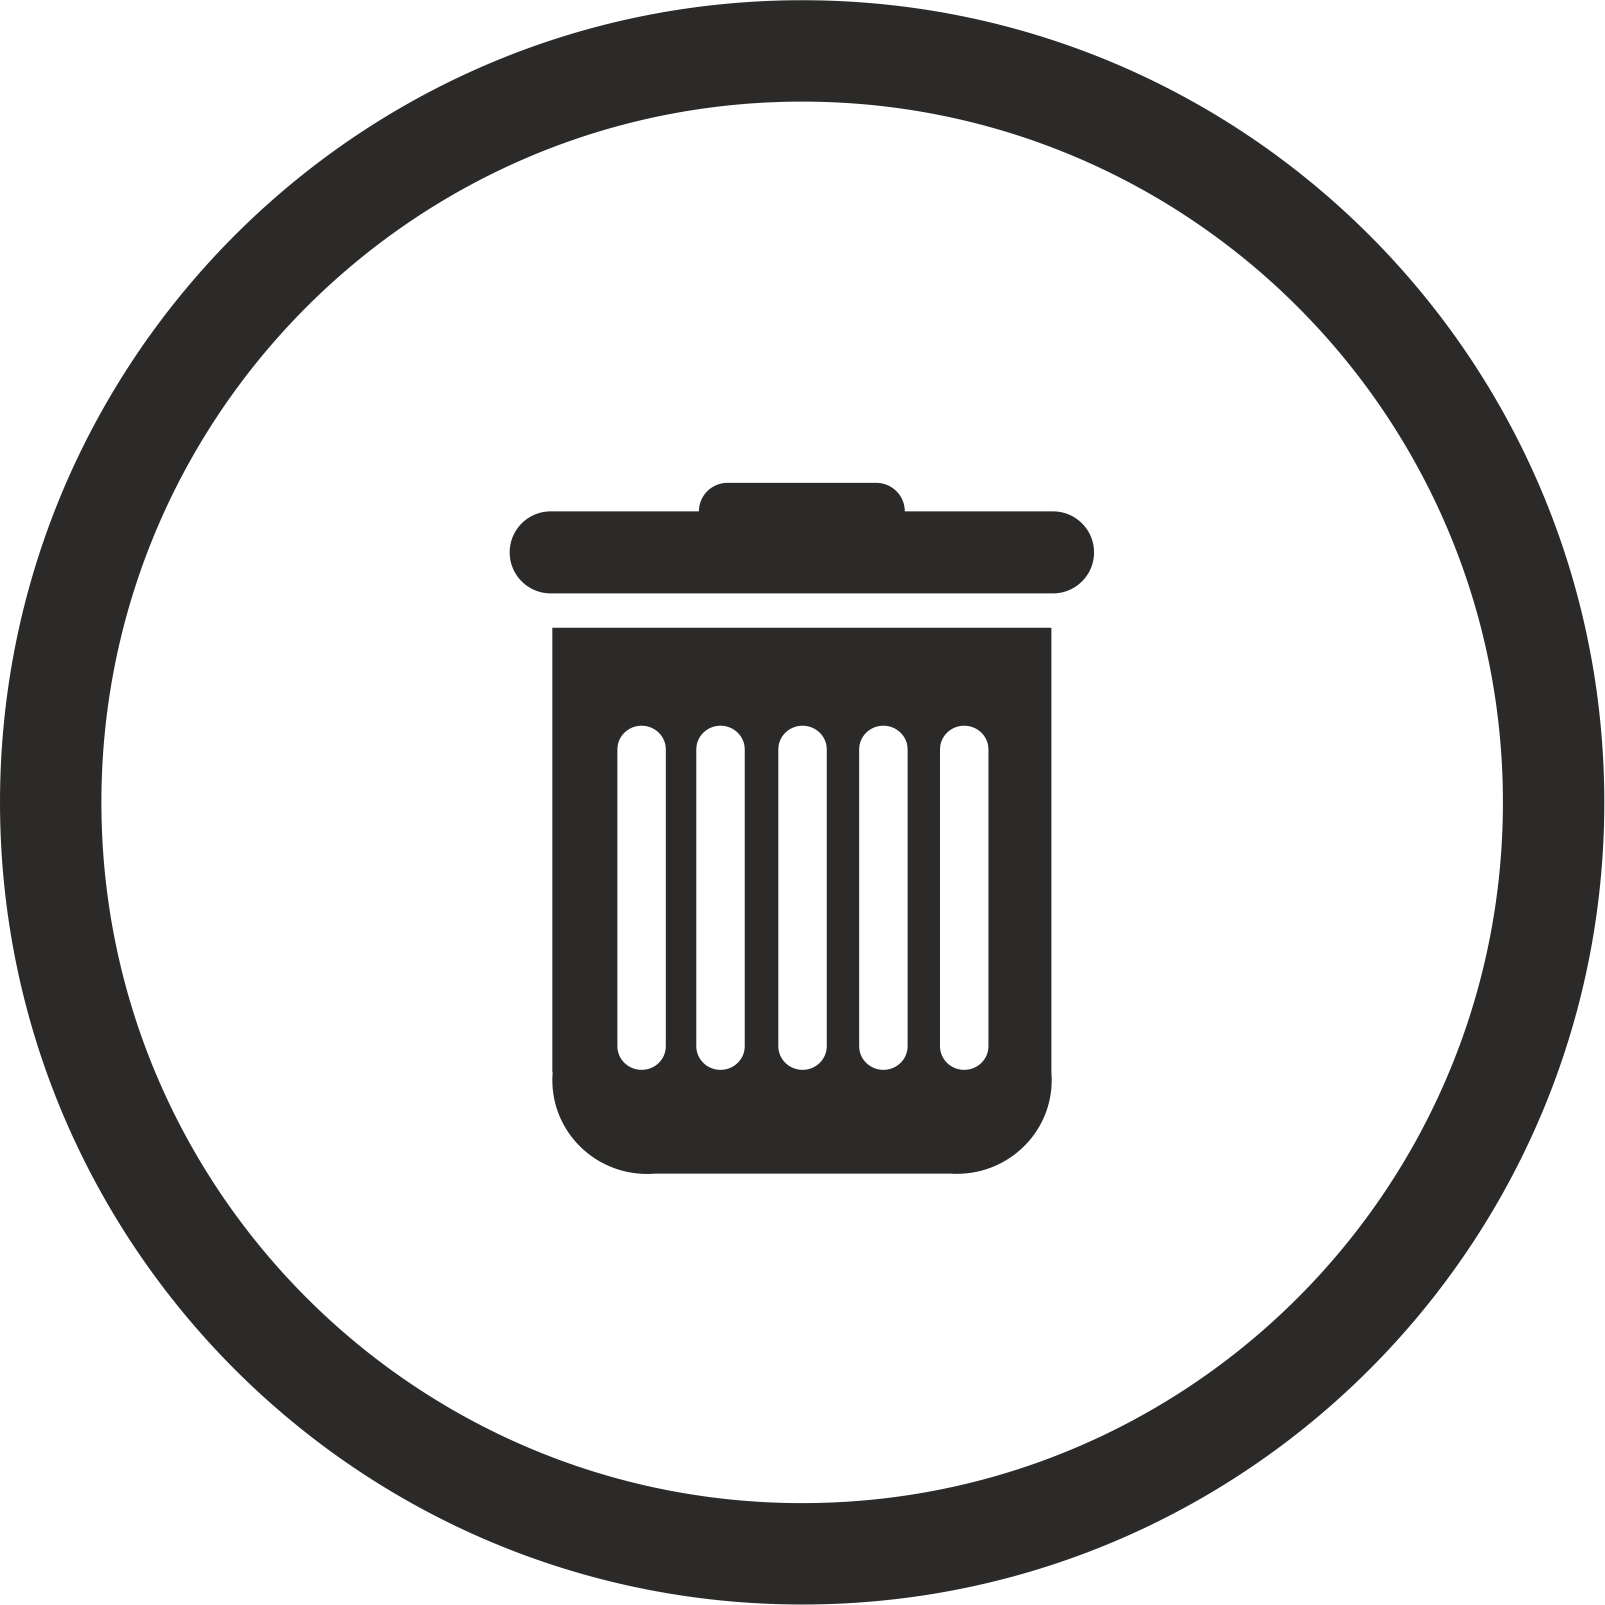
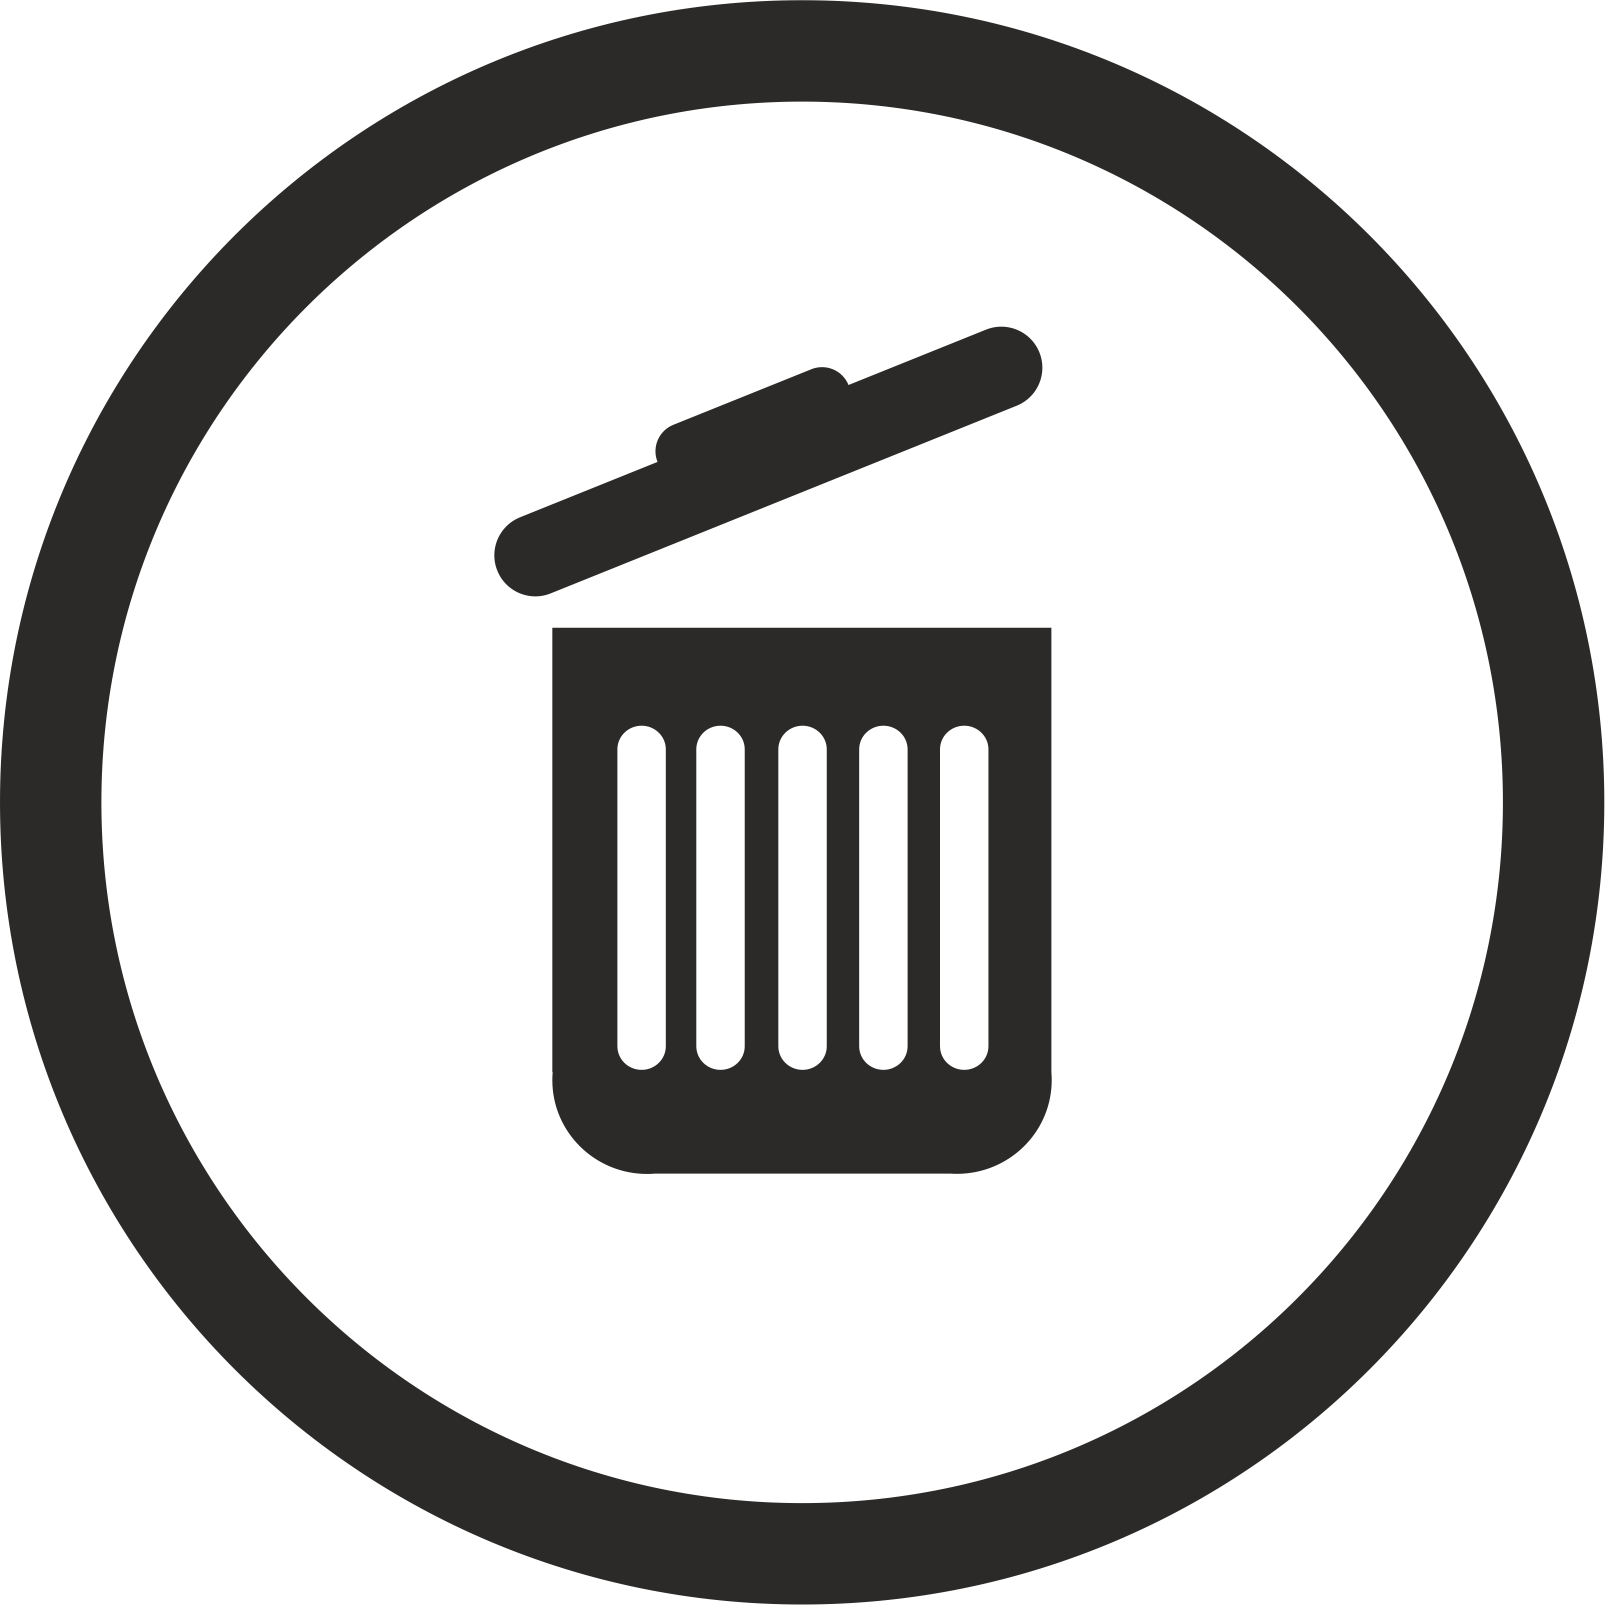
ADD: improve style darkmode, undo overlay btn and delete all tasks function

Changed region(s): [[0.3115, 0.1869, 0.6854, 0.3738]]

diff --git a/kanban/script.js b/kanban/script.js
@@ -1,6 +1,9 @@
 // bottoni principali
 const darkBtn = document.querySelector('.dark-button')
 const addBtn = document.querySelector('.add-button')
+const deleteMessage = document.querySelector('.delete-section')
+const undoDelete = document.querySelector('.no')
+const deleteAllBtn = document.querySelector('.yes')
 //elementi della sezione overlay con form aggiunta testo icona e colori
 const overlayContainer = document.querySelector('.overlay-container')
 const addForm = document.getElementById('add-form')
@@ -10,10 +13,12 @@ const selectedColor = document.querySelectorAll('.color-section > *')
 // const colorPicker = document.querySelector('.color-picker')
 const randomBgColor = document.querySelector('.random-bg')
 const questionMark = document.querySelector('.fa-question')
+let toDoEl
 let icon = null
 let color = null
 let misteryColor = null
 let arrayColor = []
+const undoBtn = document.getElementById('undo-button')
 const confirmBtn = document.getElementById('confirm-button')
 const closeBtn = document.querySelector('.closed-btn')
 // elementi per la gestione del drag and drop
@@ -29,6 +34,11 @@ const trashImg = document.querySelector('.trash-img')
 // pulsante per attivARE DARKMODE
 darkBtn.addEventListener('click', function(){
    document.body.classList.toggle('dark-mode')
+   if(document.body.className === 'dark-mode'){
+        trashImg.src = "../img/cestino-darkmode-chiuso.png"
+    }else{
+        trashImg.src = "../img/cestino-chiuso.png" 
+    }
 })
 // ascolto bottone di aggiunta task
 addBtn.addEventListener('click', function () {
@@ -61,13 +71,16 @@ for (let i = 0; i < selectedColor.length;i++){
 
     })
 }
-// rimozione focus sul click dell'overlay ma fuori dal form
-overlayContainer.addEventListener('click',function(event){
-    if (event.target === overlayContainer){
-        removeIconFocus()
-        removeColorFocus()
-    }
-       
+// pulsante annulla
+undoBtn.addEventListener('click', function(event){
+    event.preventDefault()
+    removeIconFocus()
+    removeColorFocus()
+    toDoText.value = ''
+    icon = null
+    color = null
+    misteryColor = null
+    arrayColor = []
 })
 // inserimento task da parte dell'utente
 addForm.addEventListener('submit', function (event) {
@@ -82,7 +95,7 @@ addForm.addEventListener('submit', function (event) {
         removeColorFocus()
         overlayContainer.classList.add('d-off')
         overlayContainer.classList.remove('overflow-h')
-        const toDoEl = createCard('div', ['to-do-element', color], toDoText.value, icon, el => (el.draggable = true))
+        toDoEl = createCard('div', ['to-do-element', color], toDoText.value, icon, el => (el.draggable = true))
     
         toDoEl.style = misteryColor
         cardBody.appendChild(toDoEl)
@@ -106,8 +119,23 @@ closeBtn.addEventListener('click', function(event){
         removeColorFocus()
 
 })
-
-
+// rimozione di tutte task al cliccare del cestino
+trashImg.addEventListener('click',function(){
+    deleteMessage.classList.remove('d-none')
+})
+undoDelete.addEventListener('click',function(){
+    deleteMessage.classList.add('d-none')
+})
+deleteAllBtn.addEventListener('click',function(){
+    deleteMessage.classList.add('d-none')
+    if(toDoEl){
+        const deleEl = document.querySelectorAll('.to-do-element')
+        for(let i = 0; i < deleEl.length;i++){
+            deleEl[i].remove()
+        }
+        
+    }
+})
 
 
 
@@ -158,13 +186,22 @@ function drop() {
 }
 // aggiunto eventi di drag and drop al cestino
 trashImg.addEventListener('dragenter', function(event){
-    trashImg.src = "../img/cestino-aperto.png"
+    if(document.body.className === 'dark-mode'){
+        trashImg.src = "../img/cestino-darkmode-aperto.png"
+    } else {
+        trashImg.src = "../img/cestino-aperto.png" 
+    }
+    
     
     console.log('entrato');
 })
 
 trashImg.addEventListener('dragleave', function(event){
-    trashImg.src = "../img/cestino-chiuso.png"
+    if(document.body.className === 'dark-mode'){
+        trashImg.src = "../img/cestino-darkmode-chiuso.png"
+    } else {
+        trashImg.src = "../img/cestino-chiuso.png" 
+    }
     
     console.log('uscito');
 })
@@ -175,7 +212,11 @@ trashImg.addEventListener('dragover', function(event){
 })
 
 trashImg.addEventListener('drop', function(event){
-    trashImg.src = "../img/cestino-chiuso.png"
+    if(document.body.className === 'dark-mode'){
+        trashImg.src = "../img/cestino-darkmode-chiuso.png"
+    } else {
+        trashImg.src = "../img/cestino-chiuso.png" 
+    }
     dragItem.remove()
     console.log('sto eliminando');
 })

diff --git a/kanban/css/app.css b/kanban/css/app.css
@@ -60,9 +60,7 @@ header {
 
 h1 {
     text-shadow: 2px 2px 2px rgba(0, 0, 0, 0.356);
-    line-height: 30px;
-    padding-bottom: 15px;
-    padding-left: 5px;
+    padding: 0px 0px 0px 5px;
     transition: background-color 1s, box-shadow 1s;
 
 }
@@ -70,7 +68,7 @@ h1 {
 .navbar {
     display: flex;
     justify-content: space-between;
-    align-items: center;
+    align-items: center
 }
 
 .dark-button {
@@ -99,6 +97,7 @@ h1 {
     cursor: pointer;
     color: white;
     box-shadow: rgba(0, 0, 0, 0.297) 2px 2px 4px 1px;
+    transition: background-color 1s;
 
 }
 
@@ -149,14 +148,25 @@ h1 {
 
 .trash {
     position: relative;
-    width: 70px;
+    width: 60px;
     display: flex;
 }
 
 .trash img {
     position: absolute;
-    margin-top: 3px;
+    left: 15px;
+    transition: transform 0.3s;
+    cursor: pointer;
 
+}
+.trash img:hover{
+    transform: scale(1.2);
+}
+.delete-section{
+    position: absolute;
+    background-color: #A7E8BD;
+    top: 50%;
+    left: 50%;
 }
 
 /* overlay style */
@@ -175,7 +185,7 @@ h1 {
     justify-content: center;
     visibility: visible;
     opacity: 1;
-    transition: opacity 1s ease, visibility 0.3s ease;
+    transition: opacity 1s ease, visibility 0.3s ease , background-color 1s;
     user-select: none;
 }
 
@@ -256,7 +266,21 @@ h1 {
 #to-do-text:focus {
     outline: 3px solid #44b4af;
 }
-
+#undo-button{
+    margin: 15px 0 0 15px;
+    padding: 7px 10px;
+    background-color: #ffffff;
+    display: inline-block;
+    border-radius: 14px;
+    border: none;
+    line-height: 20px;
+    cursor: pointer;
+    box-shadow: rgba(0, 0, 0, 0.297) 2px 2px 4px 1px;
+    font-size: 16px;
+}
+#undo-button:hover{
+    background-color: #dfdfdf
+}
 #confirm-button {
     margin: 15px 0 0 15px;
     padding: 7px 10px;
@@ -283,11 +307,11 @@ h1 {
     top: 50px;
     right: 50px;
     transition: transform 0.3s;
+    cursor: pointer;
 }
 
 .closed-btn:hover {
     transform: scale(1.5);
-    cursor: pointer;
 }
 
 /* utilities class */
@@ -427,6 +451,9 @@ h1 {
     border: 2px solid rgb(255, 255, 255);
     color: rgb(255, 255, 255);
 }
+.dark-mode .dark-button:hover{
+    background-color: rgb(58, 57, 57);
+}
 .dark-mode .card{
     background-color:rgb(65, 65, 65) ;
     border-radius: 2px;
@@ -435,7 +462,35 @@ h1 {
 .dark-mode .card-title{
     color:white
 }
+.dark-mode .add-button{
+    background-color:rgb(16, 16, 16) ;
+}
+.dark-mode .add-button:hover{
+    background-color: rgb(58, 57, 57);
+}
+.dark-mode .trash img{
+    opacity: 1;
+}
+.dark-mode .overlay-container{
+    background-color:  rgba(16, 16, 16, 0.897);
 
+}
+.dark-mode .color-section>*.focus,
+.dark-mode .icon.focus{
+    outline: 3px solid #145C9E;
+}
+.dark-mode .icon.focus{
+    background-color:#5298da;
+}
+.dark-mode .icon:hover{
+    background-color:#2373be;
+}
+.dark-mode #confirm-button{
+    background-color:#145C9E;
+}
+.dark-mode #confirm-button:hover{
+    background-color:#2373be;
+}
 /* media querriers */
 @media (max-width: 992px) {
     .col {

diff --git a/kanban/index.html b/kanban/index.html
@@ -152,10 +152,17 @@
                 </div>
 
             </div>
-
-            <button id="confirm-button">Conferma</button>
+            <div>
+                <button id="undo-button">Annulla</button>
+                <button id="confirm-button">Conferma</button>
+            </div>
             <i class="fa-regular fa-circle-xmark closed-btn"></i>
         </form>
+    </div>
+    <div class="delete-section d-none">
+        <p>Sei sicuro di elinare</p>
+        <button class="no">Annulla</button>
+        <button class="yes">Elimina</button>
     </div>
 
 
